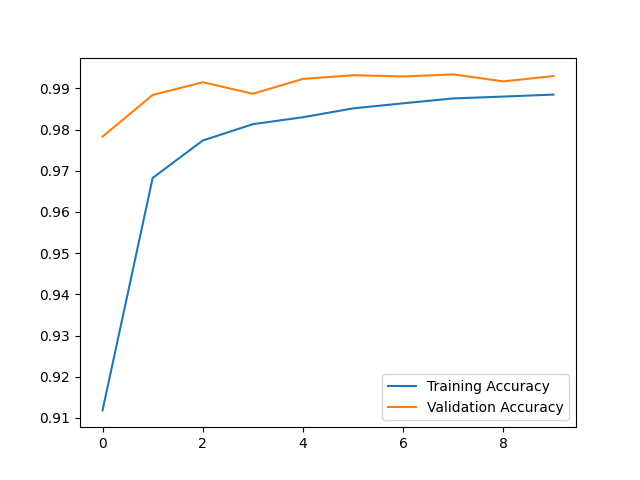
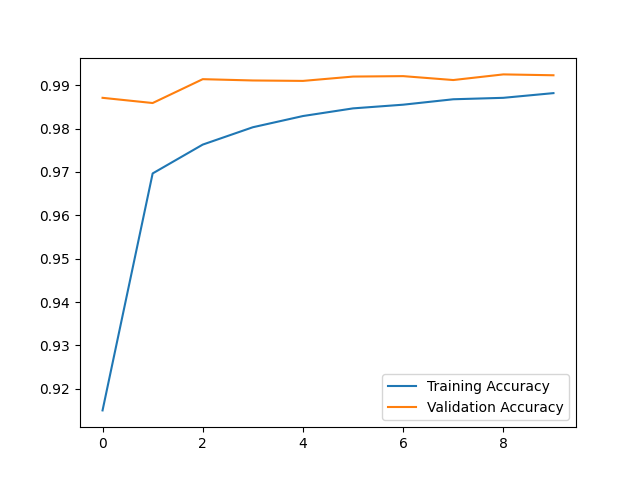
Updated trained model

diff --git a/train.py b/train.py
@@ -5,7 +5,7 @@ os.makedirs("outputs", exist_ok=True)
 
 import tensorflow as tf
 from tensorflow.keras import layers, models
-from tensorflow.keras.preprocessing.image import ImageDataGenerator
+from tensorflow.keras.preprocessing.image import ImageDataGenerator  # type: ignore
 import matplotlib.pyplot as plt
 
 print("Training started...")